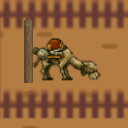
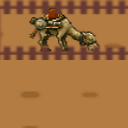
more trap

diff --git a/MRace.js b/MRace.js
@@ -4,8 +4,8 @@ var MathRacing = (function() {
 	var ANGLE = 0;
 	var TILE_WIDTH = 128;
 	var TILE_HEIGHT = 128;
-	var SPEED = 10; //tiles speed1
-	var CAR_START_X = 110;
+	var SPEED = 5; //tiles speed1
+	var CAR_START_X = 256;
 	var userTextInput = '';
 	var displayInput;
 	var newQuestion;
@@ -65,6 +65,7 @@ var MathRacing = (function() {
 		this.game.load.image('car', 'static/img/assets/taxi.png'); //DA CAR
 		this.game.load.image('obstacle_2', 'static/img/assets/obstacle_2.png'); //hole
 		this.load.atlasJSONHash('obstacle_1', 'static/img/assets/obstacle_1.png', 'static/img/assets/obstacle_1.json'); //trafic light
+		this.load.atlasJSONHash('obstacle_3', 'static/img/assets/obstacle_3.png', 'static/img/assets/obstacle_3.json'); //trafic light
 		this.game.load.image('button_0', 'static/img/assets/number0.png');
 		this.game.load.image('button_1', 'static/img/assets/number1.png');
 		this.game.load.image('button_2', 'static/img/assets/number2.png');
@@ -118,10 +119,12 @@ var MathRacing = (function() {
 			// Distance formula
 			var distance = sprite.x - this.car.x;
 
-			if (distance < 70) {
+			if (distance < 100) {
 				if (!answered) {
 					if (!this.seenObstacle) {
 						generateQuestion();
+						displayInput.text = '';
+						userTextInput = '';
 						timer.add(2000, this.alert, this);
 						timer.start();
 						this.seenObstacle = true;
@@ -133,9 +136,13 @@ var MathRacing = (function() {
 					SPEED = 0;
 				} else {
 					if (sprite.key == 'obstacle_1') {
-						sprite.animations.play('turnGreen')
+						sprite.animations.play('turnGreen');
 					} else if (sprite.key == 'obstacle_2') {
 						isJumping = true;
+					} else if (sprite.key == 'obstacle_3') {
+						sprite.animations.play('rockBreak');
+						this.growCar();
+						//tween_rotate.start();
 					}
 					SPEED = 6;
 					//if (this.car.x <= this.carAI.x) {
@@ -158,9 +165,15 @@ var MathRacing = (function() {
 			// Distance formula
 			var distance = sprite.x - this.carAI.x;
 
-			if (distance < 70 && distance > 0) {
-				if (!answered && this.car.x != this.carAI.x) {
-					if (sprite.key == 'obstacle_2') isJumpingAI = true;
+			if (distance < 100 && distance > 0) {
+				if (!answered && this.car.x != this.carAI.x && SPEED > 0) {
+					if (sprite.key == 'obstacle_2') {
+						isJumpingAI = true;
+					} else if (sprite.key == 'obstacle_3') {
+						this.game.add.tween(this.carAI).to({
+							tint: 0xe2e2e2,
+						}, 600, Phaser.Easing.Exponential.Out, true, 0, 0, true);
+					}
 					if (this.car.x > this.carAI.x) {
 						//console.log('removing obstacle at' + i);
 						arrObstacles.splice(i, 1); //remove obstacle that passed alraedy when falling behind player
@@ -170,6 +183,7 @@ var MathRacing = (function() {
 			i++;
 		}
 	};
+
 	MathRacing.prototype.alert = function() {
 		if (!answered) {
 			isFailedQues = true;
@@ -239,7 +253,7 @@ var MathRacing = (function() {
 	};
 
 	MathRacing.prototype.randomObstacle = function() {
-		var random = Math.round(Math.random() * 1) + 1;
+		var random = Math.round(Math.random() * 2) + 1;
 		return 'obstacle_' + random;
 	};
 
@@ -286,7 +300,7 @@ var MathRacing = (function() {
 		var sprite;
 
 		if (arrTiles[4].children[0] === undefined) {
-			x = this.roadStartPosition.x ;
+			x = this.roadStartPosition.x;
 		} else {
 			x = arrTiles[4].children[0].x + 128;
 		}
@@ -295,7 +309,10 @@ var MathRacing = (function() {
 			sprite = new Phaser.Sprite(this.game, x, y, tile);
 		} else if (tile == 'obstacle_1') {
 			sprite = new Phaser.Sprite(this.game, x, y, tile, 'obstacle1_1');
-			sprite.animations.add('turnGreen', Phaser.Animation.generateFrameNames('obstacle1_', 1, 3, '', 1), 4, true, false);
+			sprite.animations.add('turnGreen', Phaser.Animation.generateFrameNames('obstacle1_', 1, 3, '', 1), 10, false, false);
+		} else if (tile == 'obstacle_3') {
+			sprite = new Phaser.Sprite(this.game, x, y, tile, 'obstacle3_1');
+			sprite.animations.add('rockBreak', Phaser.Animation.generateFrameNames('obstacle3_', 1, 2, '', 1), 10, false, false);
 		} else {
 			sprite = new Phaser.Sprite(this.game, x, y, tile);
 		}
@@ -388,7 +405,6 @@ var MathRacing = (function() {
 		//if (char >= 0 && char < 10) {
 		//keyCode from 47 to 59 is 0 -> 9
 		if (!this.game.paused) {
-			var userResult;
 			if (displayInput.visible == true) {
 				if (keyCode > 47 && keyCode < 58) {
 					if (userTextInput == '') {
@@ -398,20 +414,19 @@ var MathRacing = (function() {
 					}
 					displayInput.text = userTextInput;
 				} else if (keyCode == 13) {
-					userResult = userTextInput; //replace all non-digit with ''
-					console.log('user result: ' + userResult);
+					console.log('user result: ' + userTextInput);
 					console.log('actual result: ' + result);
-					if (userResult == result) {
+					if (userTextInput == result && userTextInput != '') {
 						console.log('gratz');
 						totalAnswer++;
 						correctAnswer++;
 						score++;
 						timer.destroy();
-						//generateQuestion();
 						questionText.visible = false;
 						displayInput.visible = false;
 						boosterAI = -110;
 						questionText.text = newQuestion.x + newQuestion.op + newQuestion.y;
+						displayInput.text = '';
 						answered = true;
 					} else {
 						console.log('wrong bro');
@@ -434,6 +449,19 @@ var MathRacing = (function() {
 			}
 		}
 	};
+
+	MathRacing.prototype.growCar = function() {
+		var a = this.game.add.tween(this.car.scale).to({
+			x: 2,
+			y: 2
+		}, 400, Phaser.Easing.Linear.None, false, 0, 0, false);
+		var b = this.game.add.tween(this.car.scale).to({
+			x: 1,
+			y: 1
+		}, 400, Phaser.Easing.Linear.None, false, 200, 0, false);
+		a.chain(b);
+		a.start();
+	}
 
 	MathRacing.prototype.create = function() {
 		this.game.add.tileSprite(0, 0, 1024, 288, 'background');

diff --git a/loading.js b/loading.js
@@ -10,11 +10,11 @@ loading = {
 	},
 	create: function() {
 		//scaling options
-		//this.scale.scaleMode = Phaser.ScaleManager.SHOW_ALL;
+		this.scale.scaleMode = Phaser.ScaleManager.SHOW_ALL;
 
 		//have the game centered horizontally
-		//this.scale.pageAlignHorizontally = true;
-		//this.scale.pageAlignVertically = true;
+		this.scale.pageAlignHorizontally = true;
+		this.scale.pageAlignVertically = true;
 		// going to level select state
 		game.state.start("menuState");
 	}
